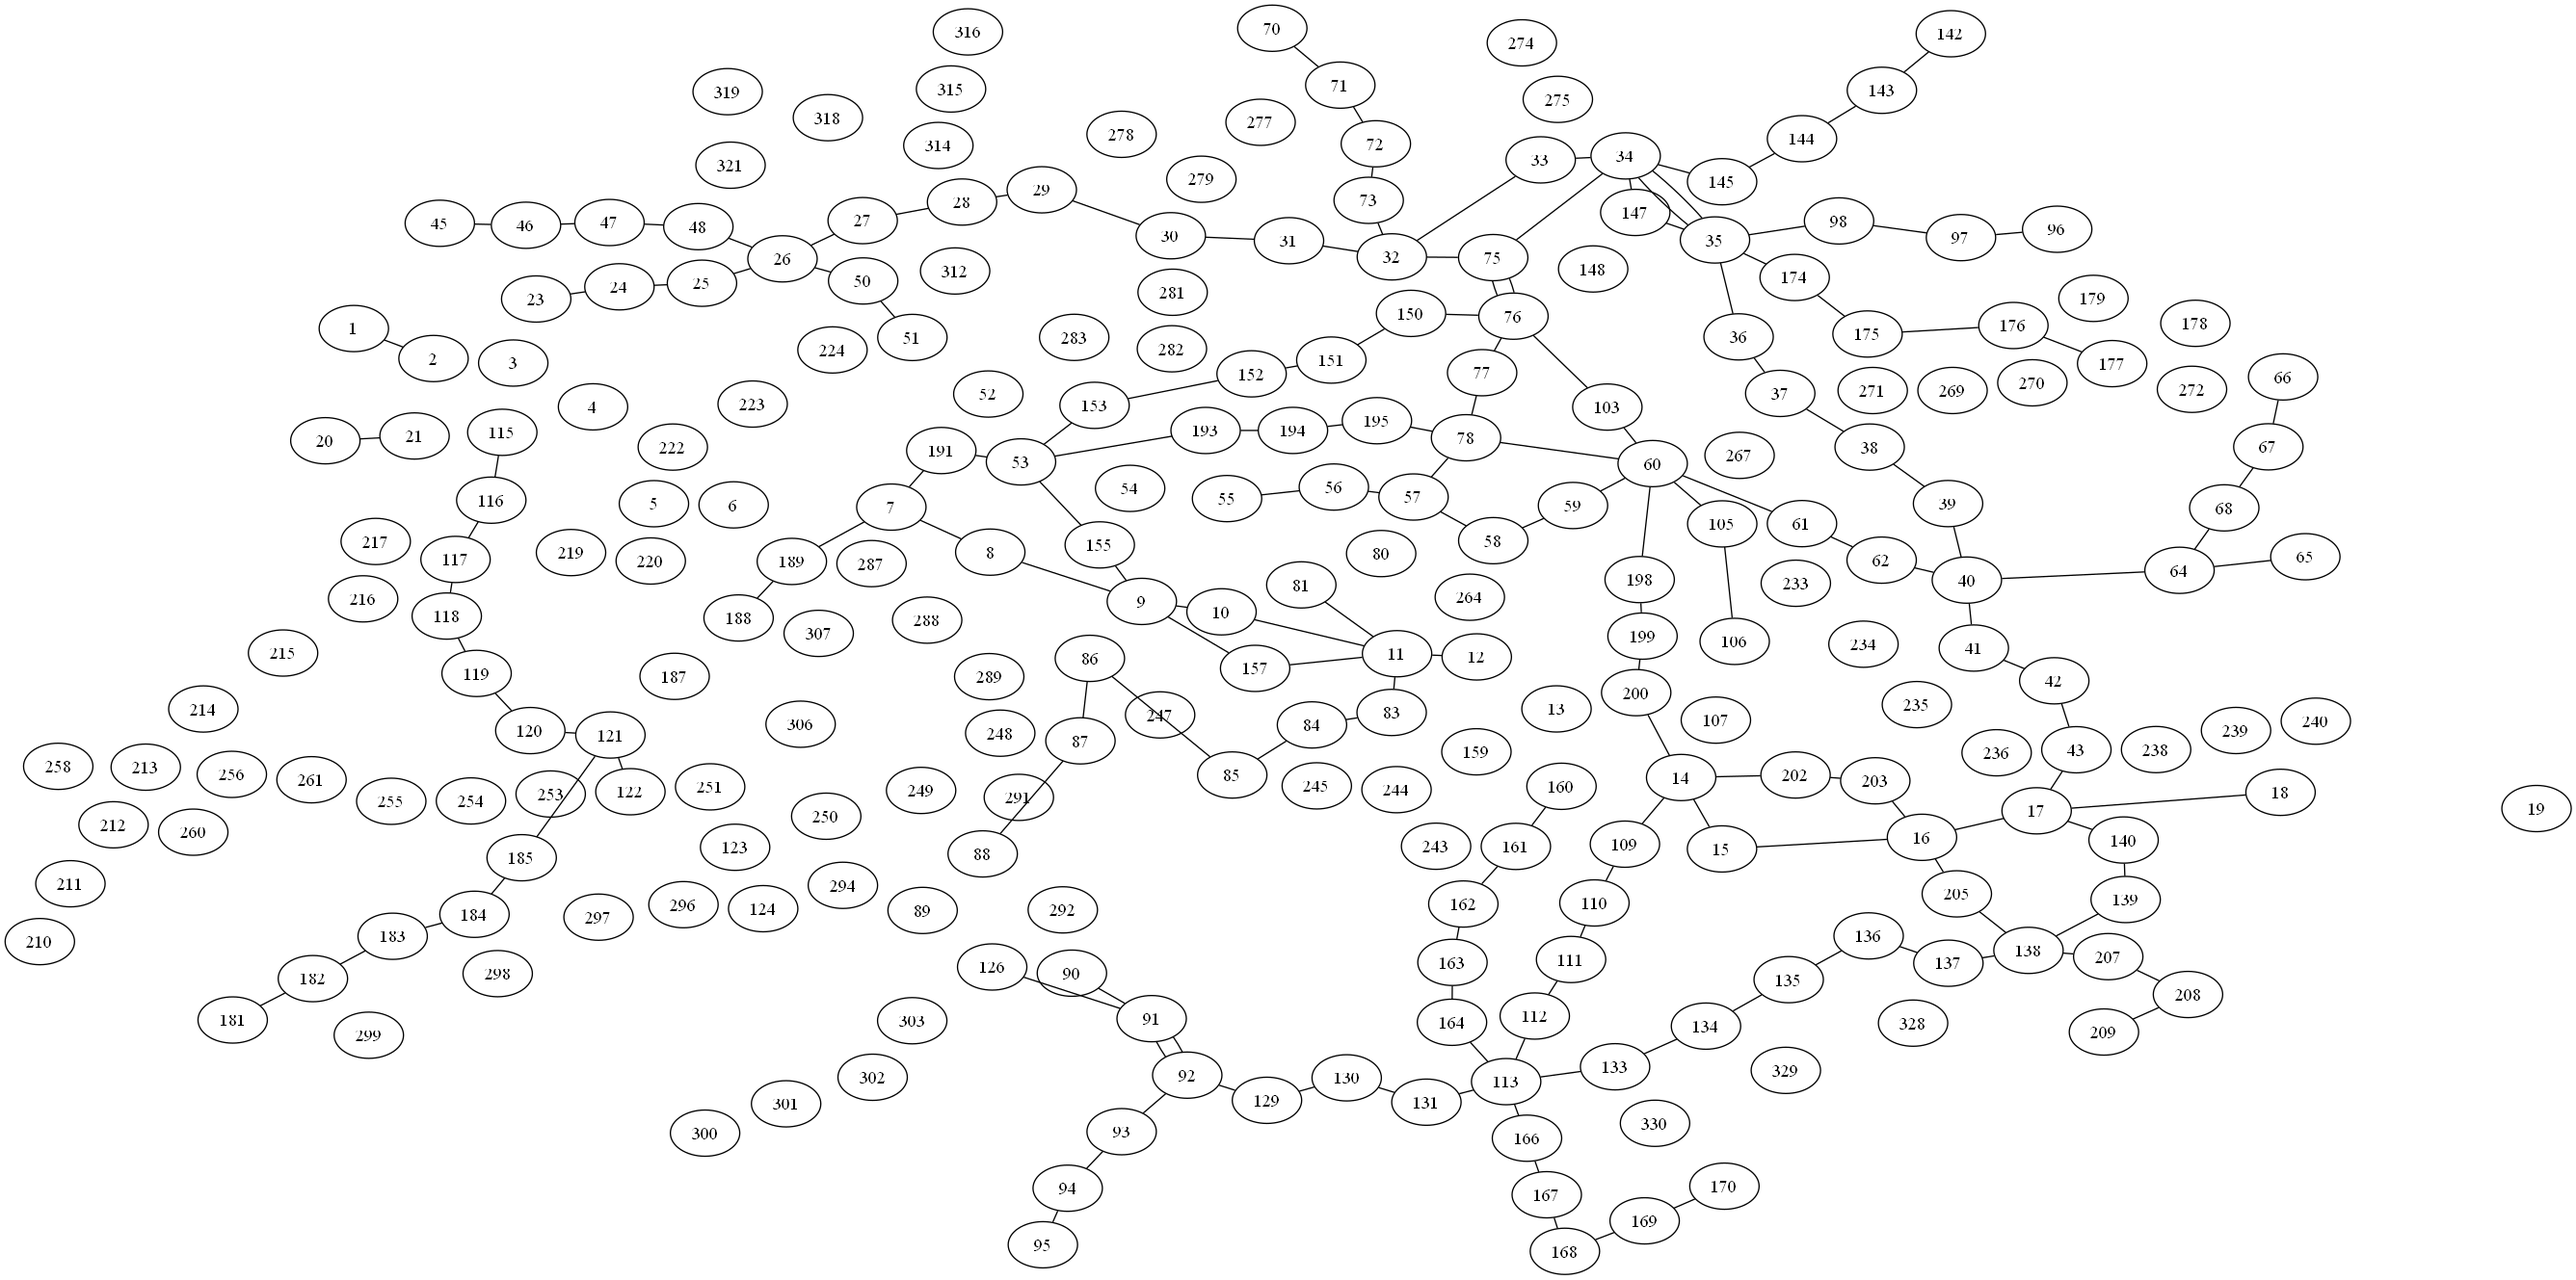
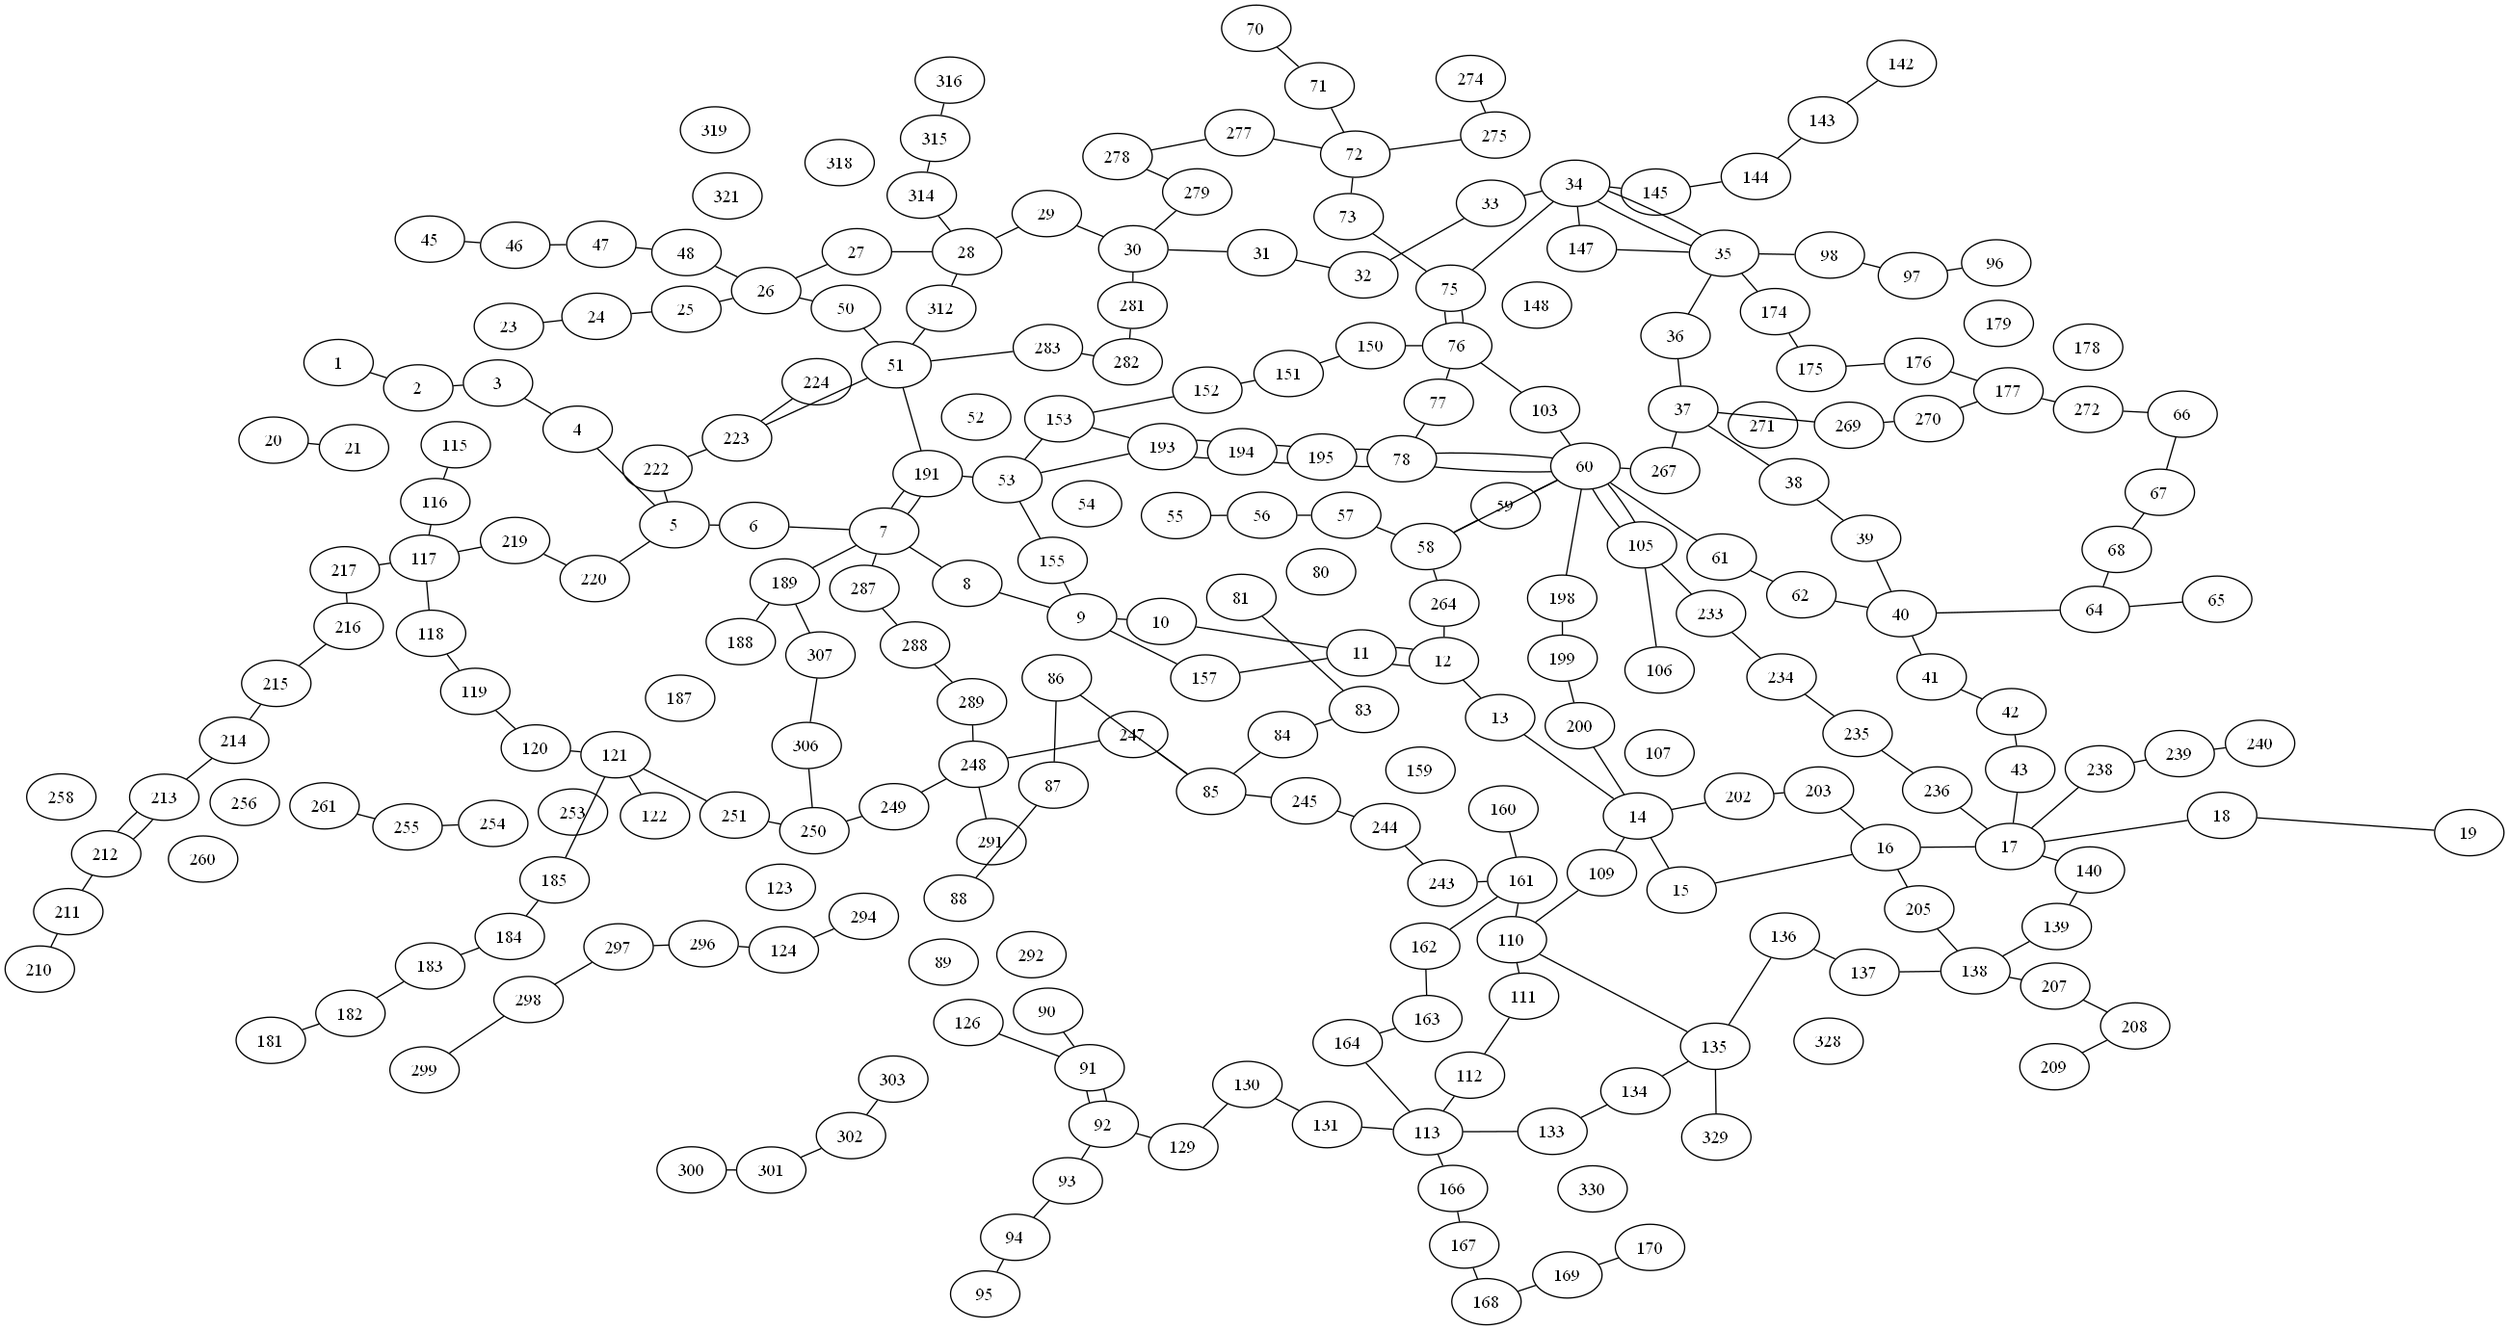
Chat GPT Excle

diff --git a/Program.cs b/Program.cs
@@ -59,7 +59,8 @@ namespace ProbSciANA
             string dotFile = "graphe.dot";
             string pngFile = "graphe.png";
             // Chemin vers le fichier Excel contenant les positions des sommets.
-            string excelFilePath = "Metro_Arcs_Par_Station_IDs.xlsx"; 
+            //string excelFilePath = "Metro_Arcs_Par_Station_IDs.xlsx"; 
+            string excelFilePath = "Stations_Avec_Lignes_Et_Suivantes.xlsx";
             // Appel de GetVertexPositions pour récupérer les positions
             (List<Station> stations, List<Arete> aretes) = ExcelHelper.GetVertexPositions(excelFilePath);
             
